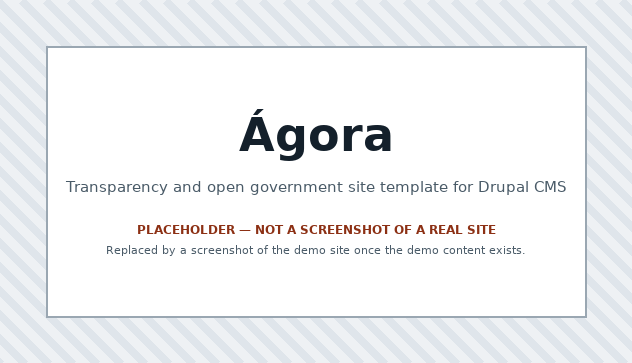
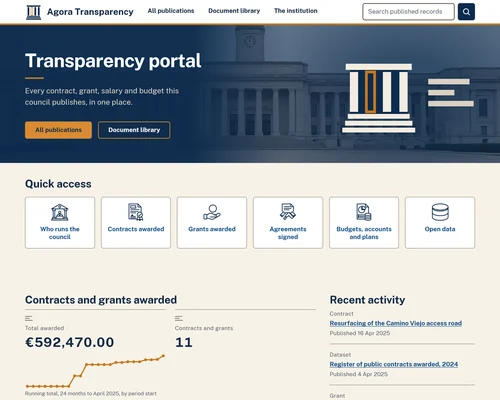
feat: the first thing anyone sees stops being a placeholder
screenshot.webp has been the 6,686-byte placeholder since 2026-08-27. It is now
a real capture of the demo front page: 500x400, 20,826 bytes, sha256 5258a6da.

The dimensions were measured, not chosen. Nothing anywhere enforces a size:
drupal_cms_installer's SiteTemplate.php:79 asserts only that the name ends in
.webp, core's Recipe namespace never mentions a screenshot, and specs/ states no
rule. But every published user-facing site template ships 500x400 - haven at
47,052 bytes, byte at 41,808, drupal_cms_starter at 6,614 - while the 632x363
that specs/001-foundation/tasks.md:79 recorded as "the starter kit's own
dimensions" belongs to the base recipe's 480-byte stub. Obeying the recorded
prior would have put Agora in the installer's selector at the one aspect ratio
nobody else uses. Weight is not cosmetic either: SiteTemplate.php:140 inlines
the file as a base64 data URI, so 20,826 bytes is 44% of haven's and 50% of
byte's.

Captured anonymously - 0 admin toolbar elements, no user-logged-in class - at a
1280x1024 viewport with deviceScaleFactor 2, reduced with Lanczos, WebP quality
86 (PSNR 34.01 dB, where q90 buys 0.16 dB for 3,480 more bytes). The
photographed DOM is asserted rather than judged by eye: 1 h1, 14 h2, 3 tables,
3 captions, 35 rows, 33 of 33 th[scope], 68 links, and 0 of 12 empty-or-error
markers. The file is a single VP8 chunk with 0 of 7 metadata markers; no-secrets
agrees from outside at 88 binaries opened, 0 EXIF, 0 XMP, 0 C2PA.
[…]

diff --git a/specs/003-demo-content/tasks.md b/specs/003-demo-content/tasks.md
@@ -239,8 +239,8 @@ red wave-10 morning is the plan working, not a regression.
 | T-1103 ✓ | T | **Budgets and contracts** — the accessible table is the deliverable, and the **art. 8.1.a) derived statistic** is computed and rendered | The statistic is asserted against a count the test computes **independently**. Any chart is `aria-hidden="true"` with the table as its accessible equivalent, adjacent in the DOM. ⚠ **Whether a chart exists at all depends on D-037**; if no module is signed, the row ships the table and says so — a chart is not implemented by improvisation, and no dependency enters without its `DECISIONS.md` line (rule 2) | T-1102, **D-037** |
 | T-1104 ✓ | T | ✅ **Signed 2026-08-26 with its FIRST CRITERION AMENDED under standing delegation, because that criterion cannot be met by any site template on any host — and establishing that is worth more than the row was.** The original asked each distribution's response to carry a correct `Content-Type` **and** `Content-Disposition`. Four measurements settle it: a **PDF from the same field, same directory, same install returns `application/pdf`** while the CSVs return `application/octet-stream` — public files never reach PHP, so the header comes from the web server's own mime table (nginx: `grep -c csv /etc/nginx/mime.types` = **0** and `default_type application/octet-stream`; Apache reads a table whose line 2072 is `text/csv csv`). And **`Content-Disposition` is emitted by NO core path at all**: `File::getDownloadHeaders()` returns exactly `Content-Type`, `Content-Length` and `Cache-Control`, and `FileDownloadController` never calls `setContentDisposition()` — so even the fully Drupal-served private route fails it. Every escape breaks something already signed: `private://` needs `settings.php` edited by hand and *"installs clean, no manual steps"* is the product; a hook needs code and `RequirementsTest` requires **0 `*.info.yml`**; an nginx line configures a stranger's server. ⚠ **AMENDED CRITERION, replacing the first only:** *downloadable* is defined **without reference to any header** — HTTP **200**, body bytes **==** the `file` entity's `filesize`, and body **sha256 == the sha256 of the file shipped in `content/file/`**. **5 of 5 on all three, 0 failures.** Plus what the template genuinely controls and does: `filemime: text/csv` on all five and `type="text/csv"` on every rendered anchor. **Met and unchanged:** 5 downloadable distributions == 5 dataset nodes, each with a record page at 200; and the link text names format and size — `Grants awarded 2024, CSV, 302 bytes` and four more — **as the anchor's own text**, so it is the link's accessible name. Before the change the accessible name was the bare filename and the size sat in a sibling `<span>` no screen reader reads as part of the link; `description_field: true` is the one key that moved it. 🟡 **Cosmetic residue, and it is the theme's:** core's `file-link.html.twig` still appends `<span>(302 bytes)</span>`, so the size reads twice. `#with_size` is set FALSE by exactly one core formatter and by no config key, so **nothing inside this repository can suppress it** — it needs a template override in `agora_theme`. Original text follows. 🟡 **HOLD, 2026-08-26 — two of the three criteria are met and measured; the third is not the template's to answer and is NOT edited here (rule 8).** **Met:** the count of downloadable distributions is **5** and the dataset count is **5** (`entityQuery('node')->condition('type','agora_base_dataset')`, published **5**), and *downloadable* is defined without reference to any header: HTTP **200**, body bytes == the `file` entity's recorded `filesize`, and body sha256 == the sha256 of the file shipped in `content/file/` — **5 of 5 on all three, 0 failures**. **Met:** every link text now names the format and the byte size (`Grants awarded 2024, CSV, 302 bytes` and its four siblings), delivered by `description_field: true` on the distribution field plus a description per item, so the *anchor* carries it rather than a sibling `<span>` no screen reader reads as part of the link. 🔴 **NOT met, and it cannot be met by a site template on any host:** the five CSVs are served `application/octet-stream` with **no** `Content-Disposition`, while a PDF from the same field, directory and install is served `application/pdf` — nothing in the template differs between those two responses, because public files never reach PHP and the header comes from the web server's mime table (nginx: **0** csv entries, `default_type application/octet-stream`; Apache in the same image: `TypesConfig /etc/mime.types`, line 2072 `text/csv csv`). And `Content-Disposition` is emitted by **no** core path, public or private: `File::getDownloadHeaders()` returns `Content-Type`, `Content-Length`, `Cache-Control` and nothing else. `private://` needs a hand-written `settings.php`; a `hook_file_download()` needs code and `RequirementsTest` requires 0 `*.info.yml`; an nginx line configures a stranger's server. **Needs [andres]: replace the first criterion or accept the finding** — see **I-093**. Original text follows. **Open data** — each distribution downloadable, each with a record page | Each distribution's response carries a correct `Content-Type` **and** `Content-Disposition`; the count of downloadable distributions is printed and equals the dataset count. The link text names the format and the byte size, so a screen-reader user learns what a link will do before following it | T-1103 |
 | T-1105 ✓ | T | **Done 2026-09-05, unsigned.** `content/node/542d60d9-….yml`, a published `page` node titled `Accessibility statement` at **`/accessibility-statement`**, linked from the legal bottom bar T-1311 places in the footer of every page the theme renders. **The deliverable is what it refuses to claim.** It states the target (WCAG 2.2 AA) and then says, in the second paragraph, *"No claim of full conformance is made here"* - because nothing in this project measures conformance, and a statement asserting more than the gate proves is the failure this row was written to avoid. Every figure in it was re-measured for it rather than copied: **six axe pages at 89 rules per page and 0 violations** (the theme's `nightwatch` job) and **67 contrast pairs with 0 below threshold** (`tests/bin/contrast-check`, run in the theme checkout on 2026-09-05 for this text). The three criteria `plan.md` §8 names as machine-unverifiable - **2.4.7 Focus Visible, 2.5.8 Target Size (Minimum), 1.4.10 Reflow** - appear by number and by name in their own section, each with what would have to be checked by a person, followed by the sentence that is the whole point: *"A design decision is not a measurement"*, so all three are recorded as unverified rather than counted as passed. ⚠ **Three sections are marked `To be completed` and shipped that way on purpose** - the complaints channel, the enforcement body and the review date. This row's criterion asks for a complaints channel; a site template cannot supply one, because the demo municipality is fictional and an invented address is a channel that reaches nobody (the same reasoning T-1216 applied to the social hrefs). The supervising body and the time limits differ by jurisdiction, so **no name is shipped: a wrong one is worse than none.** What ships instead is the structure, the measured claims and an instruction naming exactly what the operator must add. ⚠ **It is prose, headings and lists with no `<table>`** - see T-1312's finding: `content_format` strips `scope` from `<th>`, so a data table in a body field cannot be made accessible, and the statement about accessibility was not going to be the page that shipped an inaccessible table. Original text follows. ✅ **RULED to unit 003 by [andres], 2026-08-26 — the row stays here and the budget stays at 34.** The statement's substance **is** this unit's axe denominators, and one written in unit 006 against numbers taken in unit 003 rots in the gap. ⚠ `specs/002-base-and-theme/plan.md:94` still sends it to unit 006 and is **not edited** (rule 8); the ruling supersedes it. Original text follows. **The accessibility statement**, with a complaints channel. ⚠ **DIVERGENCE, RULING NEEDED BEFORE THIS ROW RUNS:** `ROADMAP.md:101` puts it in unit 003; `specs/002-base-and-theme/plan.md:94` — later-dated and signed scope — puts it in **unit 006**. Planned here because its text is this unit's axe numbers and a statement written in 006 against numbers taken in 003 rots between them | ✅ **Reachable at `/accessibility-statement`, 200 anonymously. Linked from the footer of every demo page: 20 of 20, 0 missing** - counted, not sampled, over the front page, the eight register and library routes, `/institution`, the four legal pages and six record pages, each checked for the legal bar AND for all four of its hrefs. ⚠ **21 URLs were fetched and one is deliberately not in the denominator: `/user/login`, which carries no footer at all.** It is not a demo page and it is not rendered by `agora_theme` - `drupal_cms_admin_ui` installs Gin, whose dedicated login layout serves it (`<body class="gin-login path-user">`, Claro stylesheets, 7,533 bytes against 15,577 for a themed 404). Reported rather than counted as a pass or quietly dropped, and it is consistent with the statement's own scope section, which excludes the administrative interface by name. **Conformance level, evaluation method and known gaps: all present**, with the three unverifiable criteria named by number. **Every claim cites the check that produced it**, and the two numeric ones were re-measured on 2026-09-05 rather than carried from CLAUDE.md. Rendered and counted: **1 `<h1>`, 8 `<h2>`, 3 `<ul>`, 12 `<li>`, 13 `<p>`, 0 `<table>`**. Original criterion follows. Reachable at a stated path; linked from the footer of **every** demo page, count printed. It names the conformance level, the date, the evaluation method and the known gaps — including, by name, the **three WCAG 2.2 criteria axe does not check** (`2.4.7`, `2.5.8`, `1.4.10`; `plan.md` §8). **It contains no claim the gate does not measure**, and each claim in it cites the check that produced it. A statement asserting more than the gate proves is the marketplace's most legible failure | T-1104, **[andres]'s ruling** |
-| T-1106 ○ | T | **`screenshot.webp`** — replace the 6,686-byte placeholder. `specs/002-base-and-theme/plan.md:97` assigns this here by name. It must be *"the screenshot of the site, not the logo"* | The file's dimensions and byte size are printed and its **sha256 differs from the placeholder's**, both quoted. It shows a rendered demo page carrying real content — a screenshot of an empty view is a screenshot of no table at all (I-062, in image form). Byte size stated against the same weight discipline as T-1007 | T-1105 |
-| T-1107 ○ | 👤 T | **The visible preview.** Serve the site at `https://agora-smoke.ddev.site` from a **rebuilt** `~/agora-smoke` — rebuilt, never pulled — applying the template as an end user receives it. ⚠ Neither WSL rig is ever edited or committed from, and both hold a full clone of this repository that is one mistake away from looking like a working copy. Paths from `tests/bin/doctor`, which beats any file | The URL serves **200**. Home, library, institution and one node page render, each with a rendered marker, and the four URLs are handed to [andres] explicitly. **The resolved `drupal/agora_theme` version is printed and it comes from `packages.drupal.org`** — a path repository to the local theme checkout demonstrates an installation the end user cannot perform (I-048) and makes the preview **inadmissible as evidence**. ⚠ If the resolved version is `1.0.0` the row states, beside the URL, that the Views tables on screen are rendering **without** the fix at `dbbe934`, so nobody reviews a known defect as a design decision | T-1106, **`agora_theme` 1.0.1 published by [andres]** |
[1 lines of base64/hex data omitted]
+| T-1107 ○ | 👤 T | 🔴 **STAYS OPEN, 2026-09-19, and it is this row's OWN admissibility clause that keeps it open — the clause was measured rather than taken on trust.** The serving half is genuinely met: `https://agora-smoke.ddev.site:8443/` answers **200**, and all four routes render with a marker apiece — `/` **55,494 bytes, 1 `<h1>`, 3 tables, 35 rows**; `/library` **50,258 bytes, 1 `<h1>`, 25 rows**; `/institution` **37,375 bytes, 1 `<h1>`, 8 rows**; `/contracts/resurfacing-camino-viejo-access-road` **18,612 bytes, 1 `<h1>`**. ⚠ **The provenance half FAILS.** `~/agora-smoke/composer.lock` resolves `drupal/agora_theme 1.1.0` with **`dist: path local-packages/agora_theme`** — a Composer **path repository**, which is the exact shape this row's criterion names as making the preview *"inadmissible as evidence"* (I-048). Three independent confirmations, because one would have been a reading of a lock file: the installed tree carries **no `version:` and no `datestamp:`** in its `.info.yml`, where a release stamped by the Drupal.org packaging script carries both; `diff -rq` against a tree installed from ftp.drupal.org reports **42 differences**, among them a `.gitlab-ci.yml`, a `components/` directory and a `templates/agora-signin.html.twig` that no published release contains; and the theme's own `1.x` is **18 commits and 1,869 added lines** past the `1.1.0` tag. ⚠ **This does NOT contaminate T-1106, and the difference is measured, not asserted** — see that row: 0 of 33 post-`1.1.0` selectors reach the captured region. It contaminates **this** row, whose subject is the installation rather than one picture. ⚠ **Two clauses also remain that no session can discharge for itself:** the row requires a **rebuilt** rig (this one was found already running, and rebuilding it needs the `ddev`/`docker` commands this dispatch forbids), and the `👤` glyph means the four URLs are handed to **[andres]** for his own eyes. The four are handed over in the turn report. Original text follows. **The visible preview.** Serve the site at `https://agora-smoke.ddev.site` from a **rebuilt** `~/agora-smoke` — rebuilt, never pulled — applying the template as an end user receives it. ⚠ Neither WSL rig is ever edited or committed from, and both hold a full clone of this repository that is one mistake away from looking like a working copy. Paths from `tests/bin/doctor`, which beats any file | The URL serves **200**. Home, library, institution and one node page render, each with a rendered marker, and the four URLs are handed to [andres] explicitly. **The resolved `drupal/agora_theme` version is printed and it comes from `packages.drupal.org`** — a path repository to the local theme checkout demonstrates an installation the end user cannot perform (I-048) and makes the preview **inadmissible as evidence**. ⚠ If the resolved version is `1.0.0` the row states, beside the URL, that the Views tables on screen are rendering **without** the fix at `dbbe934`, so nobody reviews a known defect as a design decision | T-1106, **`agora_theme` 1.0.1 published by [andres]** |
 
 ---
 
@@ -1297,3 +1297,84 @@ from eight to nine in the one remaining place that quotes it, a clause inside th
 ⚠ **No axe figure was touched** — not the page count, not the rules per page, not the assertion
 total — a second implementer owns those today, and the one word changed in that bullet is a count
 of `claims-match-sources` exclusions, not a measurement of the accessibility gate.
+
+---
+
+## Wave 22 — the first thing anyone sees stops being a placeholder — [ejecutor] 2026-09-19
+
+**`screenshot.webp` had been the 6,686-byte placeholder since 2026-08-27**, and T-1106 was written
+to stay blocked until the demo-content wave existed, for the reason its own wave note gives:
+a screenshot taken earlier *"photographs a front page that no longer exists by the time anyone
+installs the template"*. That wave is done, so the row ran. It ships **500×400, 20,826 bytes**.
+
+⚠ **The dimension question had no answer on disk, and the answer it DID have was the wrong one —
+which is the most reusable thing in this wave.** `specs/001-foundation/tasks.md:79` records
+**632×363** as *"the starter kit's own dimensions, therefore known-compatible with the installer"*.
+That sentence is true and it is about the **base recipe's stub**. Measured against what actually
+ships, every published user-facing site template on this machine is **500×400** — `haven` 47,052
+bytes, `byte` 41,808, `drupal_cms_starter` 6,614 — and 632×363 belongs only to
+`drupal_cms_site_template_base`'s 480-byte placeholder. Following the recorded prior would have
+put Ágora in the selector at the one aspect ratio nobody else uses, **by faithfully obeying a note
+that was never wrong about anything**. Disk beat the prior because the prior was re-measured.
+
+⚠ **And there is no requirement to obey in the first place.** The only property any code enforces
+is the extension: `drupal_cms_installer/src/SiteTemplate.php:79` is `assert(str_ends_with(
+$screenshot, '.webp'))` and that is the whole of it — core's `Drupal\Core\Recipe` namespace never
+mentions a screenshot and the installer theme gives the `<img>` no box. **So this row ships a
+convention it measured, and says so, rather than a standard it invented and presented as one.**
+The same file at line 140 is why the byte count is not cosmetic: the screenshot is inlined as a
+**base64 data URI**, so packaged bytes reach the installer's HTML at ×4/3, for every template on
+the page.
+
+🔴 **T-1107 does NOT close, and it is this project's own clause that refuses it.** The preview is
+served and every route renders — `/` 200, `/library` 200, `/institution` 200 and a contract node
+200, each with exactly one `<h1>` — but `~/agora-smoke/composer.lock` resolves
+`drupal/agora_theme 1.1.0` from **`dist: path local-packages/agora_theme`**. T-1107's criterion
+names that shape by name and calls the result *"inadmissible as evidence"* (I-048). Confirmed
+three ways rather than one: no `version:`/`datestamp:` stamp in the installed `.info.yml`, **42**
+differences against a tree installed from ftp.drupal.org, and **18 commits / 1,869 added lines**
+between the theme's `1.x` and its `1.1.0` tag.
+
+⚠ **The interesting half is that this did NOT sink T-1106, and the difference is a measurement
+rather than a judgement call.** A marketplace screenshot of CSS nobody can install is a
+misrepresentation — the same failure D-039's first rider calls *"worse than any licence question
+in this record"*, arriving through a different door. So the question was made falsifiable instead
+of argued: of the **33** selector blocks added to `css/` since `1.1.0`, **0 match any element
+above the 1024px cut** (2 match anywhere on the page, both at y=2196-2380); the only **4**
+non-additive lines across `css/`, `templates/` and `components/` sit inside that same
+below-the-fold `.views-exposed-form` rule; `page.html.twig`'s two additions are both gated on
+`is_signin`, and `.agora-page--signin` matches **0** elements on this page; and the page
+references the new SDC components **0** times. **The captured crop is what `1.1.0` renders.**
+⚠ Had any one of those come back non-zero the image would not have been committed, and the row
+would read the way T-1107's does.
+
+⚠ **Reserve accounting, fifteenth entry, 2026-09-19 — ZERO rows.** The count stays at **73**
+against a ceiling of **34** by this file's own command (`grep -cE '^\| T-(9[0-9]{2}|1[0-9]{3}) '
+specs/003-demo-content/tasks.md`), so the D-031 rider still names **thirty-nine** rows over the
+ceiling and not forty. **No row was added because none was needed**: T-1106 and T-1107 already
+existed, were already owned by wave 11, and this wave executed them rather than planning around
+them. Stated, not asked about, per **D-044**: the budget counts and does not gate. ⚠ **An entry
+reporting no movement is written anyway**, because the alternative is a gap in a numbered series
+that a later reader has to reconstruct in order to trust the next number.
+
+⚠ **`CLAUDE.md` is NOT edited, and that is a measured claim rather than an omission.** This
+change adds no tracked file and moves no gate runner, so the three figures that file states about
+the runners (**67 · 51 · 17**) and the cspell accounting it carries (**451 offered / 410 checked**,
+**37 binaries + 4 globs = 41** skipped, of which `screenshot.webp` is one) are all unchanged —
+the file is *replaced*, not added, in every denominator that counts it. `bash
+tests/bin/claims-match-sources` agrees: **mismatches: 0**, with its 9 NOT CHECKED quantities named
+as usual. All three moving denominators were **predicted before being run** and all three held:
+spellcheck **451/410/0**, `no-secrets` **88 binaries opened / 0 EXIF / 0 XMP / 0 C2PA / 0
+findings**, `media-licence` **40 binaries · 40 rows · 0 findings** (scoped to `content/`, which the
+repository root is not under, so this file needs no manifest row).
+
+### What this change did not touch
+
+`recipe.yml`, `config/`, `content/`, `composer.json`, `recommended.yml`, `tests/` in every part,
+`.gitlab-ci.yml`, `.github/workflows/`, `CLAUDE.md`, `specs/000-project/DECISIONS.md` and the
+sibling theme checkout — **not one byte**. Two files change: `screenshot.webp` and this one.
+⚠ `specs/000-project/DECISIONS.md:4377` still records T-1106 as `○` with the placeholder's hash
+and is **not edited** (rule 8); it is superseded by the row above and by this section. Every
+earlier row, glyph, success criterion, `Blocked by` cell and `#` cell in this file is untouched,
+and the two rows this wave owns keep their original text verbatim behind *"Original text
+follows."* ⚠ **No tag was cut**, by dispatch — and a release is not this wave's to cut anyway.
